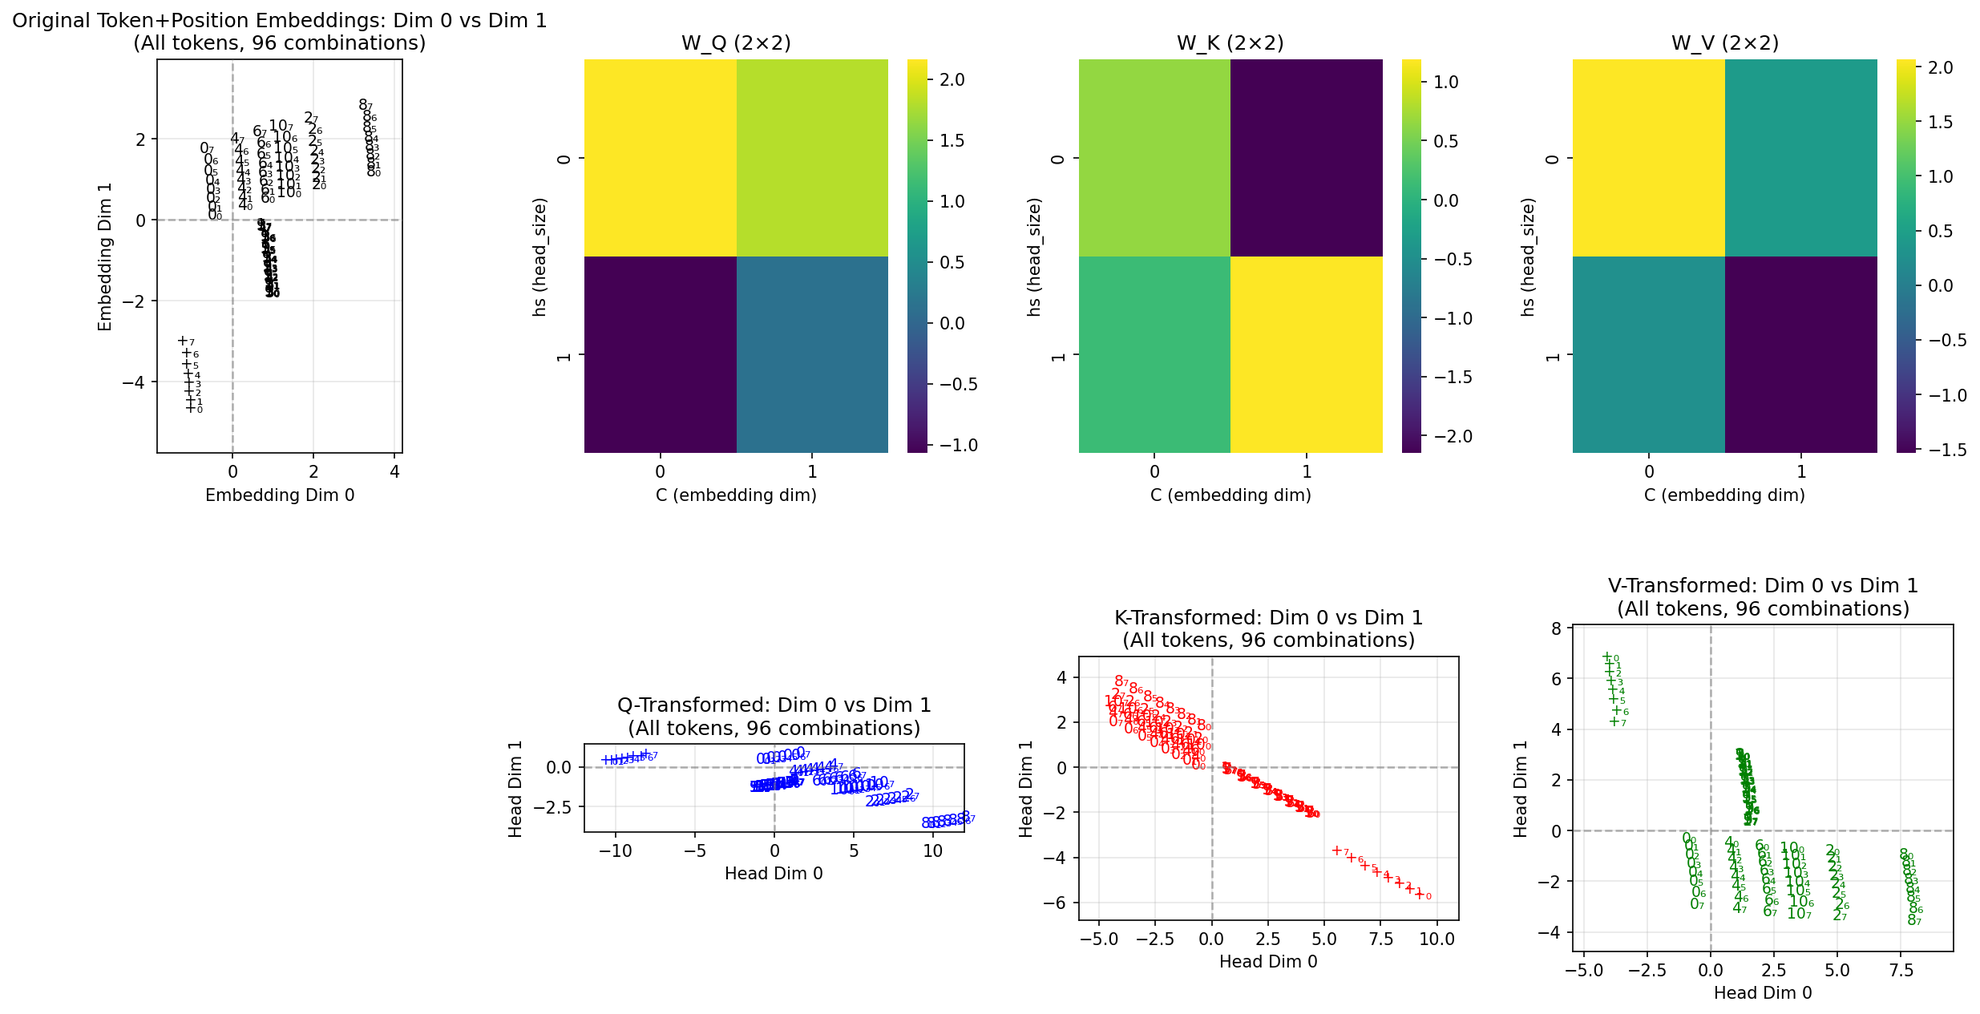
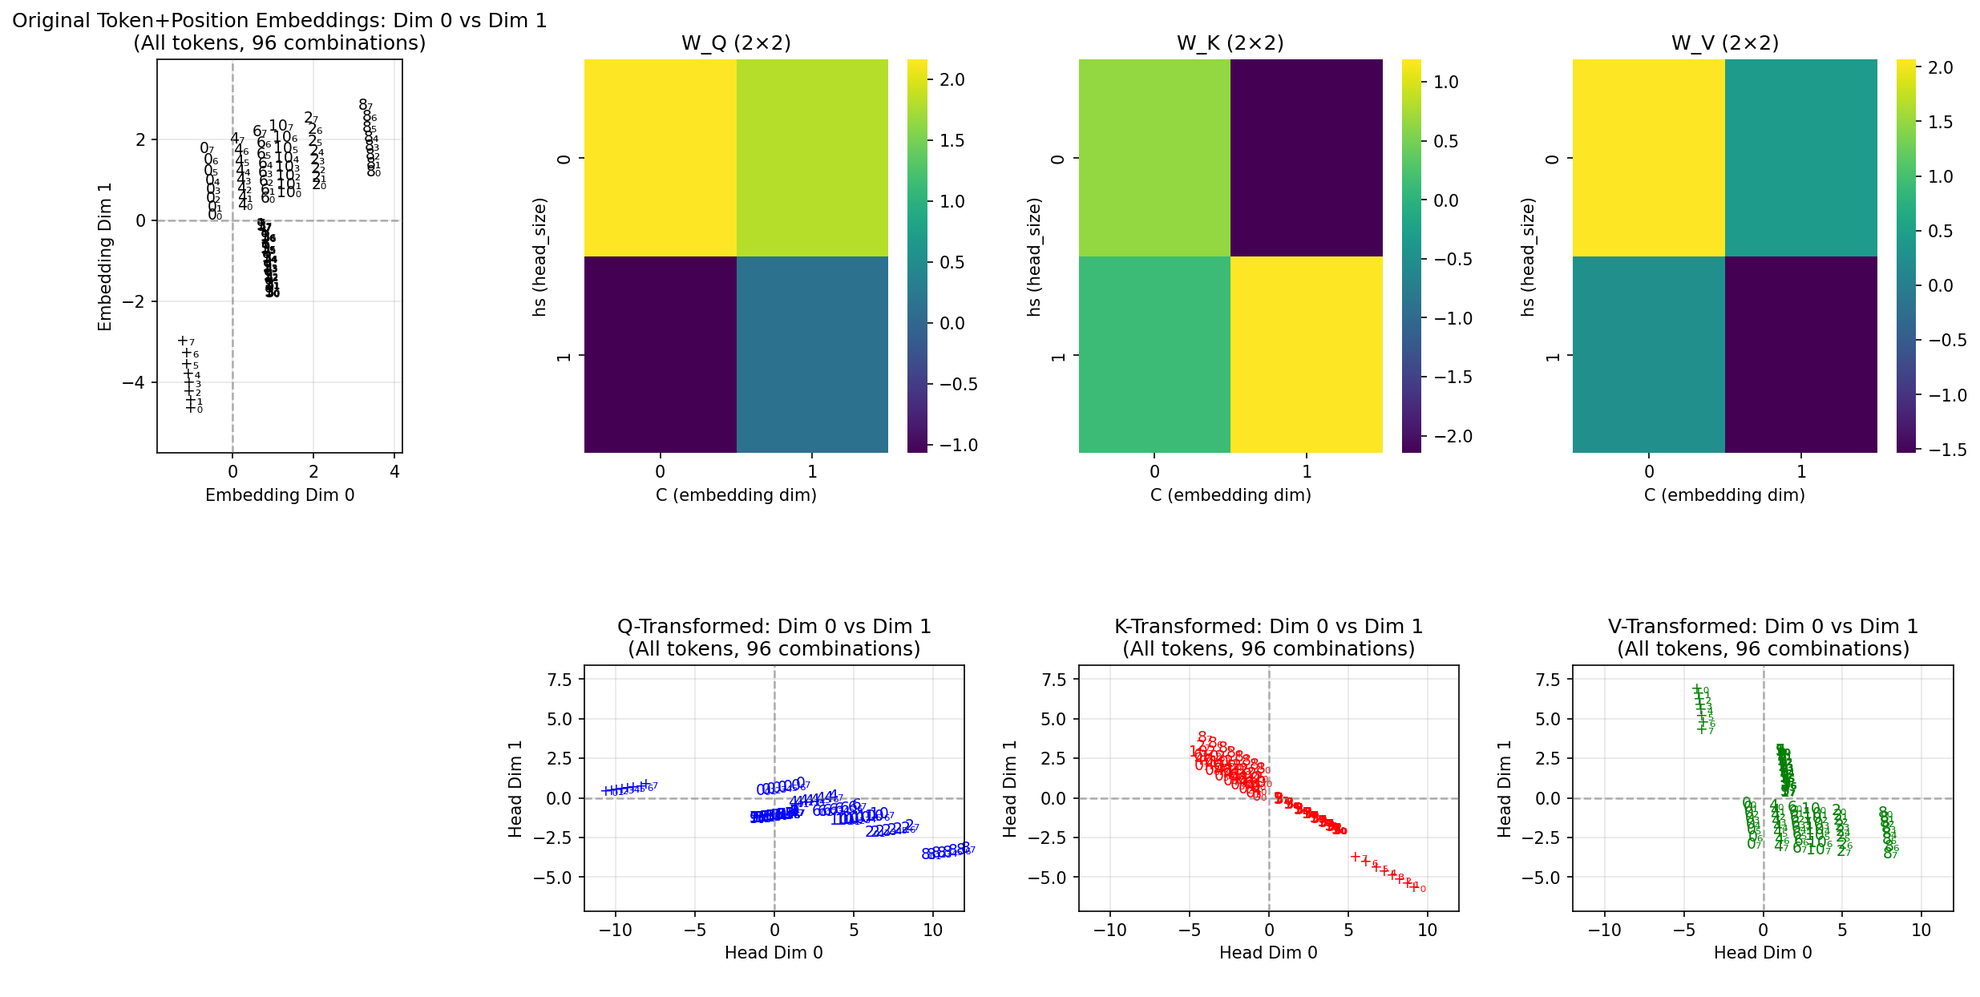
fig  fix

diff --git a/plotting/plots.py b/plotting/plots.py
@@ -2426,191 +2426,229 @@ def plot_qkv_transformations(model, itos, save_path=None):
         ax.set_ylim(np.clip(ymin - ym, -max_range, max_range), np.clip(ymax + ym, -max_range, max_range))
     
     # Create figure
-    # Journal: 3 rows × 3 cols — Row 0: Tok+Pos full width; Row 1: W_Q,W_K,W_V; Row 2: Q,K,V (match reference layout)
-    # Standard: 2 rows × 4 cols (original layout)
+    # Journal: 1 row × 3 cols — each panel = same original embeddings (embedding space), gray annotations; weight as inset
+    # Standard: 2 rows × 4 cols (original layout with Tok+Pos in row 0 col 0, then weights + Q,K,V)
     if _JOURNAL_MODE:
-        fig = plt.figure(figsize=(7.0, 8.0))
-        gs = GridSpec(3, 3, figure=fig, hspace=0.4, wspace=0.35, height_ratios=[1, 1, 1],
-                      left=0.06, right=0.96, top=0.94, bottom=0.06)
+        fig = plt.figure(figsize=(7.0, 3.2))
+        gs = GridSpec(1, 3, figure=fig, wspace=0.35, left=0.07, right=0.97, top=0.88, bottom=0.14)
     else:
         fig = plt.figure(figsize=(20, 10))
         gs = GridSpec(2, 4, figure=fig, hspace=0.35, wspace=0.3)
     
-    # Tok+Pos: journal row 0 full width; standard is row 0 col 0 only
     _lbl_fs = 6 if _JOURNAL_MODE else 9
     _step = 4 if _JOURNAL_MODE and num_combinations > 48 else 1
     _step_1d = _step
     _pe = [pe.withStroke(linewidth=2, foreground='white')] if _JOURNAL_MODE else []
-    if _JOURNAL_MODE:
-        ax0 = fig.add_subplot(gs[0, :])
-    else:
-        ax0 = fig.add_subplot(gs[0, 0])
-    if n_embd >= 2:
-        # Plot original embeddings in first 2 dimensions
-        X_orig = all_combinations[:, [0, 1]]
-        ax0.scatter(X_orig[:, 0], X_orig[:, 1], s=0, alpha=0)
-        for i in range(0, len(labels), _step):
-            ax0.text(X_orig[i, 0], X_orig[i, 1], labels[i], fontsize=_lbl_fs, ha='center', va='center',
-                     zorder=2, path_effects=_pe)
-        _ttl0 = f"Original Token+Position Embeddings: Dim 0 vs Dim 1\n(All tokens, {num_combinations} combinations)"
-        ax0.set_title(_ttl0, fontsize=9 if _JOURNAL_MODE else 12)
-        ax0.set_xlabel("Embedding Dim 0")
-        ax0.set_ylabel("Embedding Dim 1")
-        # Add origin lines (dashed, faded)
-        ax0.axhline(y=0, color='gray', linestyle='--', linewidth=1.2, alpha=0.6, zorder=10)
-        ax0.axvline(x=0, color='gray', linestyle='--', linewidth=1.2, alpha=0.6, zorder=10)
-        ax0.grid(True, alpha=0.3)
-        ax0.set_aspect('equal', adjustable='box')
-        _set_reasonable_limits(ax0, X_orig[:, 0], X_orig[:, 1], max_range=8, margin_pct=0.15)
-        if _JOURNAL_MODE:
-            ax0.tick_params(axis='both', labelsize=7)
-    else:
-        # 1D case
-        X_orig_1d = all_combinations[:, 0]
-        ax0.scatter(X_orig_1d, np.zeros_like(X_orig_1d), s=0, alpha=0)
-        for i in range(0, len(labels), _step_1d):
-            ax0.text(X_orig_1d[i], 0, labels[i], fontsize=6 if _JOURNAL_MODE else 9, ha='center', va='center', rotation=90)
-        _ttl0_1d = f"Original Token+Position Embeddings: Dim 0\n(All tokens, {num_combinations} combinations)"
-        ax0.set_title(_ttl0_1d, fontsize=9 if _JOURNAL_MODE else 12)
-        ax0.set_xlabel("Embedding Dim 0")
-        ax0.set_ylabel("")
-        ax0.grid(True, alpha=0.3)
-        ax0.set_yticks([])
-    
-    # Row 1 (journal) / Row 0 cols 1-3 (standard): QKV weights
-    _wr1, _wc1 = (1, 0) if _JOURNAL_MODE else (0, 1)
-    ax1 = fig.add_subplot(gs[_wr1, _wc1])
+    _panel_fs = 10 if _JOURNAL_MODE else 12
     x_labels = list(range(n_embd))
     y_labels_local = list(range(head_size))
-    sns.heatmap(W_Q, cmap="viridis", xticklabels=x_labels, yticklabels=y_labels_local, cbar=True, ax=ax1)
-    _wfs = 9 if _JOURNAL_MODE else 12
-    ax1.set_title(f"W_Q ({head_size}×{n_embd})", fontsize=_wfs)
-    ax1.set_xlabel("C (embedding dim)")
-    ax1.set_ylabel("hs (head_size)")
-    if _JOURNAL_MODE:
-        ax1.tick_params(axis='both', labelsize=7)
-    
-    # W_K
-    ax2 = fig.add_subplot(gs[_wr1, _wc1 + 1])
-    sns.heatmap(W_K, cmap="viridis", xticklabels=x_labels, yticklabels=y_labels_local, cbar=True, ax=ax2)
-    ax2.set_title(f"W_K ({head_size}×{n_embd})", fontsize=_wfs)
-    ax2.set_xlabel("C (embedding dim)")
-    ax2.set_ylabel("hs (head_size)")
-    if _JOURNAL_MODE:
-        ax2.tick_params(axis='both', labelsize=7)
-    
-    # W_V
-    ax3 = fig.add_subplot(gs[_wr1, _wc1 + 2])
-    sns.heatmap(W_V, cmap="viridis", xticklabels=x_labels, yticklabels=y_labels_local, cbar=True, ax=ax3)
-    ax3.set_title(f"W_V ({head_size}×{n_embd})", fontsize=_wfs)
-    ax3.set_xlabel("C (embedding dim)")
-    ax3.set_ylabel("hs (head_size)")
-    if _JOURNAL_MODE:
-        ax3.tick_params(axis='both', labelsize=7)
-    
-    # Row 2 (journal) / Row 1 cols 1-3 (standard): Transformed Q, K, V
-    if not _JOURNAL_MODE:
-        ax_empty = fig.add_subplot(gs[1, 0])
-        ax_empty.axis("off")
-    _wr2, _wc2 = (2, 0) if _JOURNAL_MODE else (1, 1)
 
-    # Q-transformed (same annotation pattern as ax0)
-    ax4 = fig.add_subplot(gs[_wr2, _wc2])
-    if head_size >= 2:
+    # Journal: single row of 3 panels; each has (1) SAME original embeddings in light gray (identical), (2) Q/K/V in blue/red/green
+    if _JOURNAL_MODE and n_embd >= 2 and head_size >= 2:
+        X_orig = all_combinations[:, [0, 1]]
         Q_2d = Q_transformed[:, [0, 1]]
-        ax4.scatter(Q_2d[:, 0], Q_2d[:, 1], s=0, alpha=0)
-        for i in range(0, len(labels), _step):
-            ax4.text(Q_2d[i, 0], Q_2d[i, 1], labels[i], fontsize=_lbl_fs, ha='center', va='center',
-                     color='blue', zorder=2, path_effects=_pe)
-        _qttl = f"Q-Transformed: Dim 0 vs Dim 1\n(All tokens, {num_combinations} combinations)"
-        ax4.set_title(_qttl, fontsize=9 if _JOURNAL_MODE else 12)
-        ax4.set_xlabel("Head Dim 0")
-        ax4.set_ylabel("Head Dim 1")
-        ax4.axhline(y=0, color='gray', linestyle='--', linewidth=1.2, alpha=0.6, zorder=10)
-        ax4.axvline(x=0, color='gray', linestyle='--', linewidth=1.2, alpha=0.6, zorder=10)
-        ax4.grid(True, alpha=0.3)
-        _set_reasonable_limits(ax4, Q_2d[:, 0], Q_2d[:, 1])
-        ax4.set_aspect('equal', adjustable='box')
-        if _JOURNAL_MODE:
-            ax4.tick_params(axis='both', labelsize=7)
-    else:
-        # 1D case
-        Q_1d = Q_transformed[:, 0]
-        ax4.scatter(Q_1d, np.zeros_like(Q_1d), s=0, alpha=0)
-        for i in range(0, len(labels), _step_1d):
-            ax4.text(Q_1d[i], 0, labels[i], fontsize=_lbl_fs, ha='center', va='center', rotation=90, color='blue')
-        _qttl1d = f"Q-Transformed: Dim 0\n(All tokens, {num_combinations} combinations)"
-        ax4.set_title(_qttl1d, fontsize=9 if _JOURNAL_MODE else 12)
-        ax4.set_xlabel("Head Dim 0")
-        ax4.set_ylabel("")
-        ax4.grid(True, alpha=0.3)
-        ax4.set_yticks([])
-    
-    # K-transformed
-    ax5 = fig.add_subplot(gs[_wr2, _wc2 + 1])
-    if head_size >= 2:
         K_2d = K_transformed[:, [0, 1]]
-        ax5.scatter(K_2d[:, 0], K_2d[:, 1], s=0, alpha=0)
-        for i in range(0, len(labels), _step):
-            ax5.text(K_2d[i, 0], K_2d[i, 1], labels[i], fontsize=_lbl_fs, ha='center', va='center',
-                     color='red', zorder=2, path_effects=_pe)
-        _kttl = f"K-Transformed: Dim 0 vs Dim 1\n(All tokens, {num_combinations} combinations)"
-        ax5.set_title(_kttl, fontsize=9 if _JOURNAL_MODE else 12)
-        ax5.set_xlabel("Head Dim 0")
-        ax5.set_ylabel("Head Dim 1")
-        ax5.axhline(y=0, color='gray', linestyle='--', linewidth=1.2, alpha=0.6, zorder=10)
-        ax5.axvline(x=0, color='gray', linestyle='--', linewidth=1.2, alpha=0.6, zorder=10)
-        ax5.grid(True, alpha=0.3)
-        _set_reasonable_limits(ax5, K_2d[:, 0], K_2d[:, 1])
-        ax5.set_aspect('equal', adjustable='box')
-        if _JOURNAL_MODE:
-            ax5.tick_params(axis='both', labelsize=7)
-    else:
-        K_1d = K_transformed[:, 0]
-        ax5.scatter(K_1d, np.zeros_like(K_1d), s=0, alpha=0)
-        for i in range(0, len(labels), _step_1d):
-            ax5.text(K_1d[i], 0, labels[i], fontsize=_lbl_fs, ha='center', va='center', rotation=90, color='red')
-        _kttl1d = f"K-Transformed: Dim 0\n(All tokens, {num_combinations} combinations)"
-        ax5.set_title(_kttl1d, fontsize=9 if _JOURNAL_MODE else 12)
-        ax5.set_xlabel("Head Dim 0")
-        ax5.set_ylabel("")
-        ax5.grid(True, alpha=0.3)
-        ax5.set_yticks([])
-    
-    # V-transformed
-    ax6 = fig.add_subplot(gs[_wr2, _wc2 + 2])
-    v_color = 'green'
-    if head_size >= 2:
         V_2d = V_transformed[:, [0, 1]]
-        ax6.scatter(V_2d[:, 0], V_2d[:, 1], s=0, alpha=0)
-        for i in range(0, len(labels), _step):
-            ax6.text(V_2d[i, 0], V_2d[i, 1], labels[i], fontsize=_lbl_fs, ha='center', va='center',
-                     color=v_color, zorder=2, path_effects=_pe)
-        _vttl = f"V-Transformed: Dim 0 vs Dim 1\n(All tokens, {num_combinations} combinations)"
-        ax6.set_title(_vttl, fontsize=9 if _JOURNAL_MODE else 12)
-        ax6.set_xlabel("Head Dim 0")
-        ax6.set_ylabel("Head Dim 1")
-        # Add origin lines (dashed, faded)
-        ax6.axhline(y=0, color='gray', linestyle='--', linewidth=1.2, alpha=0.6, zorder=10)
-        ax6.axvline(x=0, color='gray', linestyle='--', linewidth=1.2, alpha=0.6, zorder=10)
-        ax6.grid(True, alpha=0.3)
-        _set_reasonable_limits(ax6, V_2d[:, 0], V_2d[:, 1])
-        ax6.set_aspect('equal', adjustable='box')
-        if _JOURNAL_MODE:
-            ax6.tick_params(axis='both', labelsize=7)
+        _emb_lo = X_orig.min(axis=0) - 0.15 * (X_orig.max(axis=0) - X_orig.min(axis=0))
+        _emb_hi = X_orig.max(axis=0) + 0.15 * (X_orig.max(axis=0) - X_orig.min(axis=0))
+        # Make limits square so panels are square with equal aspect
+        _cx = 0.5 * (_emb_lo[0] + _emb_hi[0])
+        _cy = 0.5 * (_emb_lo[1] + _emb_hi[1])
+        _half = 0.5 * max(_emb_hi[0] - _emb_lo[0], _emb_hi[1] - _emb_lo[1])
+        _xlo_emb, _xhi_emb = np.clip(_cx - _half, -8, 8), np.clip(_cx + _half, -8, 8)
+        _ylo_emb, _yhi_emb = np.clip(_cy - _half, -8, 8), np.clip(_cy + _half, -8, 8)
+        _m = 0.12
+        def _lims(arr):
+            x, y = arr[:, 0], arr[:, 1]
+            s0, s1 = max(x.max() - x.min(), 0.5), max(y.max() - y.min(), 0.5)
+            return (np.clip(x.min() - _m * s0, -12, 12), np.clip(x.max() + _m * s0, -12, 12),
+                    np.clip(y.min() - _m * s1, -12, 12), np.clip(y.max() + _m * s1, -12, 12))
+        for col, (W, ttl_short, panel_label, ann_color, xyz_2d) in enumerate([
+            (W_Q, "W_Q", "(a)", "blue", Q_2d),
+            (W_K, "W_K", "(b)", "red", K_2d),
+            (W_V, "W_V", "(c)", "green", V_2d),
+        ]):
+            ax = fig.add_subplot(gs[0, col])
+            ax.set_xlim(_xlo_emb, _xhi_emb)
+            ax.set_ylim(_ylo_emb, _yhi_emb)
+            ax.set_aspect('equal', adjustable='box')
+            ax.set_xlabel("Embedding Dim 0")
+            ax.set_ylabel("Embedding Dim 1" if col == 0 else "")
+            ax.axhline(y=0, color='gray', linestyle='--', linewidth=1, alpha=0.5, zorder=0)
+            ax.axvline(x=0, color='gray', linestyle='--', linewidth=1, alpha=0.5, zorder=0)
+            ax.grid(True, alpha=0.3)
+            ax.set_title(f"{ttl_short}: token+position embeddings", fontsize=9)
+            ax.tick_params(axis='both', labelsize=7)
+            ax.text(-0.08, 1.02, panel_label, transform=ax.transAxes, fontsize=_panel_fs, fontweight='bold', va='bottom')
+            # Layer 1: original token+position embeddings — light gray, identical on all three panels
+            for i in range(0, len(labels), _step):
+                ax.text(X_orig[i, 0], X_orig[i, 1], labels[i], fontsize=_lbl_fs, ha='center', va='center',
+                        color='0.7', alpha=0.7, zorder=0)
+            # Layer 2: Q (panel 1) / K (panel 2) / V (panel 3) in blue/red/green — overlay in own coords
+            ax2 = ax.inset_axes([0, 0, 1, 1])
+            ax2.patch.set_visible(False)
+            xl, xr, yl, yr = _lims(xyz_2d)
+            ax2.set_xlim(xl, xr)
+            ax2.set_ylim(yl, yr)
+            ax2.set_aspect('equal', adjustable='box')
+            ax2.set_xticks([])
+            ax2.set_yticks([])
+            for spine in ax2.spines.values():
+                spine.set_visible(False)
+            for i in range(0, len(labels), _step):
+                ax2.text(xyz_2d[i, 0], xyz_2d[i, 1], labels[i], fontsize=_lbl_fs, ha='center', va='center',
+                        color=ann_color, zorder=1)
+            # Inset: weight heatmap, upper right
+            inset = ax.inset_axes([0.72, 0.68, 0.26, 0.26])
+            sns.heatmap(W, cmap="viridis", xticklabels=['0', '1'], yticklabels=['0', '1'], cbar=False,
+                        ax=inset, annot=True, fmt='.1f', annot_kws={'size': 5})
+            for t in inset.texts:
+                t.set_backgroundcolor('none')
+            _sub = ttl_short.split("_")[-1]
+            inset.set_title(rf"$W_{{{_sub}}}$", fontsize=6, pad=2)
+            inset.set_xlabel("C", fontsize=5, labelpad=1)
+            inset.set_ylabel("hs", fontsize=5, labelpad=1)
+            inset.tick_params(axis='both', which='both', length=0, labelsize=4, pad=1)
     else:
-        V_1d = V_transformed[:, 0]
-        margin = 0.15 * (V_1d.max() - V_1d.min())
-        ax6.set_xlim(V_1d.min() - margin, V_1d.max() + margin)
-        ax6.set_ylim(-0.5, 0.5)
-        for i in range(0, len(labels), _step_1d):
-            ax6.text(V_1d[i], 0, labels[i], fontsize=_lbl_fs, ha='center', va='center', color=v_color)
-        _vttl1d = f"V-Transformed: Dim 0\n(All tokens, {num_combinations} combinations)"
-        ax6.set_title(_vttl1d, fontsize=9 if _JOURNAL_MODE else 12)
-        ax6.set_xlabel("Head Dim 0")
-        ax6.set_ylabel("")
-        ax6.grid(True, alpha=0.3)
-        ax6.set_yticks([])
+        # Standard (non-journal) or 1D: keep original two-row layout
+        if not _JOURNAL_MODE:
+            ax0 = fig.add_subplot(gs[0, 0])
+            if n_embd >= 2:
+                X_orig = all_combinations[:, [0, 1]]
+                ax0.scatter(X_orig[:, 0], X_orig[:, 1], s=0, alpha=0)
+                for i in range(0, len(labels), _step):
+                    ax0.text(X_orig[i, 0], X_orig[i, 1], labels[i], fontsize=_lbl_fs, ha='center', va='center',
+                             zorder=2, path_effects=_pe)
+                ax0.set_title(f"Original Token+Position Embeddings: Dim 0 vs Dim 1\n(All tokens, {num_combinations} combinations)", fontsize=12)
+                ax0.set_xlabel("Embedding Dim 0")
+                ax0.set_ylabel("Embedding Dim 1")
+                ax0.axhline(y=0, color='gray', linestyle='--', linewidth=1.2, alpha=0.6, zorder=10)
+                ax0.axvline(x=0, color='gray', linestyle='--', linewidth=1.2, alpha=0.6, zorder=10)
+                ax0.grid(True, alpha=0.3)
+                ax0.set_aspect('equal', adjustable='box')
+                _set_reasonable_limits(ax0, X_orig[:, 0], X_orig[:, 1], max_range=8, margin_pct=0.15)
+            else:
+                X_orig_1d = all_combinations[:, 0]
+                ax0.scatter(X_orig_1d, np.zeros_like(X_orig_1d), s=0, alpha=0)
+                for i in range(0, len(labels), _step_1d):
+                    ax0.text(X_orig_1d[i], 0, labels[i], fontsize=9, ha='center', va='center', rotation=90)
+                ax0.set_title(f"Original Token+Position Embeddings: Dim 0\n(All tokens, {num_combinations} combinations)", fontsize=12)
+                ax0.set_xlabel("Embedding Dim 0")
+                ax0.set_ylabel("")
+                ax0.grid(True, alpha=0.3)
+                ax0.set_yticks([])
+
+        _wr1, _wc1 = (0, 1)
+        ax1 = fig.add_subplot(gs[_wr1, _wc1])
+        sns.heatmap(W_Q, cmap="viridis", xticklabels=x_labels, yticklabels=y_labels_local, cbar=True, ax=ax1)
+        ax1.set_title(f"W_Q ({head_size}×{n_embd})", fontsize=12)
+        ax1.set_xlabel("C (embedding dim)")
+        ax1.set_ylabel("hs (head_size)")
+        ax2 = fig.add_subplot(gs[_wr1, _wc1 + 1])
+        sns.heatmap(W_K, cmap="viridis", xticklabels=x_labels, yticklabels=y_labels_local, cbar=True, ax=ax2)
+        ax2.set_title(f"W_K ({head_size}×{n_embd})", fontsize=12)
+        ax2.set_xlabel("C (embedding dim)")
+        ax2.set_ylabel("hs (head_size)")
+        ax3 = fig.add_subplot(gs[_wr1, _wc1 + 2])
+        sns.heatmap(W_V, cmap="viridis", xticklabels=x_labels, yticklabels=y_labels_local, cbar=True, ax=ax3)
+        ax3.set_title(f"W_V ({head_size}×{n_embd})", fontsize=12)
+        ax3.set_xlabel("C (embedding dim)")
+        ax3.set_ylabel("hs (head_size)")
+        if not _JOURNAL_MODE:
+            ax_empty = fig.add_subplot(gs[1, 0])
+            ax_empty.axis("off")
+        _wr2, _wc2 = (1, 1)
+        if head_size >= 2:
+            Q_2d = Q_transformed[:, [0, 1]]
+            K_2d = K_transformed[:, [0, 1]]
+            V_2d = V_transformed[:, [0, 1]]
+            _x_all = np.concatenate([Q_2d[:, 0], K_2d[:, 0], V_2d[:, 0]])
+            _y_all = np.concatenate([Q_2d[:, 1], K_2d[:, 1], V_2d[:, 1]])
+            _max_range, _margin = 12, 0.12
+            _xspan = max(_x_all.max() - _x_all.min(), 0.5)
+            _yspan = max(_y_all.max() - _y_all.min(), 0.5)
+            _xlo = np.clip(_x_all.min() - _margin * _xspan, -_max_range, _max_range)
+            _xhi = np.clip(_x_all.max() + _margin * _xspan, -_max_range, _max_range)
+            _ylo = np.clip(_y_all.min() - _margin * _yspan, -_max_range, _max_range)
+            _yhi = np.clip(_y_all.max() + _margin * _yspan, -_max_range, _max_range)
+        ax4 = fig.add_subplot(gs[_wr2, _wc2])
+        if head_size >= 2:
+            ax4.scatter(Q_2d[:, 0], Q_2d[:, 1], s=0, alpha=0)
+            for i in range(0, len(labels), _step):
+                ax4.text(Q_2d[i, 0], Q_2d[i, 1], labels[i], fontsize=_lbl_fs, ha='center', va='center',
+                         color='blue', zorder=2, path_effects=_pe)
+            ax4.set_title(f"Q-Transformed: Dim 0 vs Dim 1\n(All tokens, {num_combinations} combinations)", fontsize=12)
+            ax4.set_xlabel("Head Dim 0")
+            ax4.set_ylabel("Head Dim 1")
+            ax4.axhline(y=0, color='gray', linestyle='--', linewidth=1.2, alpha=0.6, zorder=10)
+            ax4.axvline(x=0, color='gray', linestyle='--', linewidth=1.2, alpha=0.6, zorder=10)
+            ax4.grid(True, alpha=0.3)
+            ax4.set_xlim(_xlo, _xhi)
+            ax4.set_ylim(_ylo, _yhi)
+            ax4.set_aspect('equal', adjustable='box')
+        else:
+            Q_1d = Q_transformed[:, 0]
+            ax4.scatter(Q_1d, np.zeros_like(Q_1d), s=0, alpha=0)
+            for i in range(0, len(labels), _step_1d):
+                ax4.text(Q_1d[i], 0, labels[i], fontsize=_lbl_fs, ha='center', va='center', rotation=90, color='blue')
+            ax4.set_title(f"Q-Transformed: Dim 0\n(All tokens, {num_combinations} combinations)", fontsize=12)
+            ax4.set_xlabel("Head Dim 0")
+            ax4.set_ylabel("")
+            ax4.grid(True, alpha=0.3)
+            ax4.set_yticks([])
+        ax5 = fig.add_subplot(gs[_wr2, _wc2 + 1])
+        if head_size >= 2:
+            ax5.scatter(K_2d[:, 0], K_2d[:, 1], s=0, alpha=0)
+            for i in range(0, len(labels), _step):
+                ax5.text(K_2d[i, 0], K_2d[i, 1], labels[i], fontsize=_lbl_fs, ha='center', va='center',
+                         color='red', zorder=2, path_effects=_pe)
+            ax5.set_title(f"K-Transformed: Dim 0 vs Dim 1\n(All tokens, {num_combinations} combinations)", fontsize=12)
+            ax5.set_xlabel("Head Dim 0")
+            ax5.set_ylabel("Head Dim 1")
+            ax5.axhline(y=0, color='gray', linestyle='--', linewidth=1.2, alpha=0.6, zorder=10)
+            ax5.axvline(x=0, color='gray', linestyle='--', linewidth=1.2, alpha=0.6, zorder=10)
+            ax5.grid(True, alpha=0.3)
+            ax5.set_xlim(_xlo, _xhi)
+            ax5.set_ylim(_ylo, _yhi)
+            ax5.set_aspect('equal', adjustable='box')
+        else:
+            K_1d = K_transformed[:, 0]
+            ax5.scatter(K_1d, np.zeros_like(K_1d), s=0, alpha=0)
+            for i in range(0, len(labels), _step_1d):
+                ax5.text(K_1d[i], 0, labels[i], fontsize=_lbl_fs, ha='center', va='center', rotation=90, color='red')
+            ax5.set_title(f"K-Transformed: Dim 0\n(All tokens, {num_combinations} combinations)", fontsize=12)
+            ax5.set_xlabel("Head Dim 0")
+            ax5.set_ylabel("")
+            ax5.grid(True, alpha=0.3)
+            ax5.set_yticks([])
+        ax6 = fig.add_subplot(gs[_wr2, _wc2 + 2])
+        v_color = 'green'
+        if head_size >= 2:
+            ax6.scatter(V_2d[:, 0], V_2d[:, 1], s=0, alpha=0)
+            for i in range(0, len(labels), _step):
+                ax6.text(V_2d[i, 0], V_2d[i, 1], labels[i], fontsize=_lbl_fs, ha='center', va='center',
+                         color=v_color, zorder=2, path_effects=_pe)
+            ax6.set_title(f"V-Transformed: Dim 0 vs Dim 1\n(All tokens, {num_combinations} combinations)", fontsize=12)
+            ax6.set_xlabel("Head Dim 0")
+            ax6.set_ylabel("Head Dim 1")
+            ax6.axhline(y=0, color='gray', linestyle='--', linewidth=1.2, alpha=0.6, zorder=10)
+            ax6.axvline(x=0, color='gray', linestyle='--', linewidth=1.2, alpha=0.6, zorder=10)
+            ax6.grid(True, alpha=0.3)
+            ax6.set_xlim(_xlo, _xhi)
+            ax6.set_ylim(_ylo, _yhi)
+            ax6.set_aspect('equal', adjustable='box')
+        else:
+            V_1d = V_transformed[:, 0]
+            margin = 0.15 * (V_1d.max() - V_1d.min())
+            ax6.set_xlim(V_1d.min() - margin, V_1d.max() + margin)
+            ax6.set_ylim(-0.5, 0.5)
+            for i in range(0, len(labels), _step_1d):
+                ax6.text(V_1d[i], 0, labels[i], fontsize=_lbl_fs, ha='center', va='center', color=v_color)
+            ax6.set_title(f"V-Transformed: Dim 0\n(All tokens, {num_combinations} combinations)", fontsize=12)
+            ax6.set_xlabel("Head Dim 0")
+            ax6.set_ylabel("")
+            ax6.grid(True, alpha=0.3)
+            ax6.set_yticks([])
 
     if not _JOURNAL_MODE:
         plt.tight_layout()
